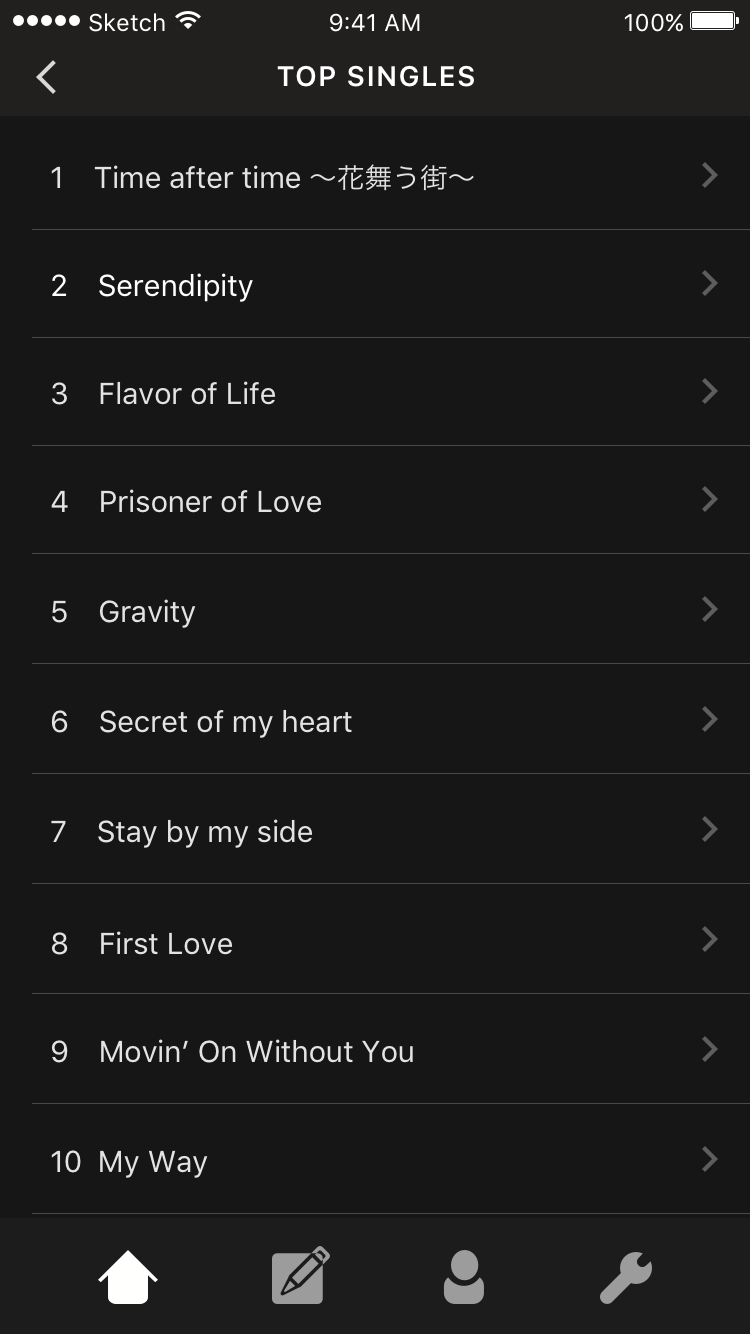
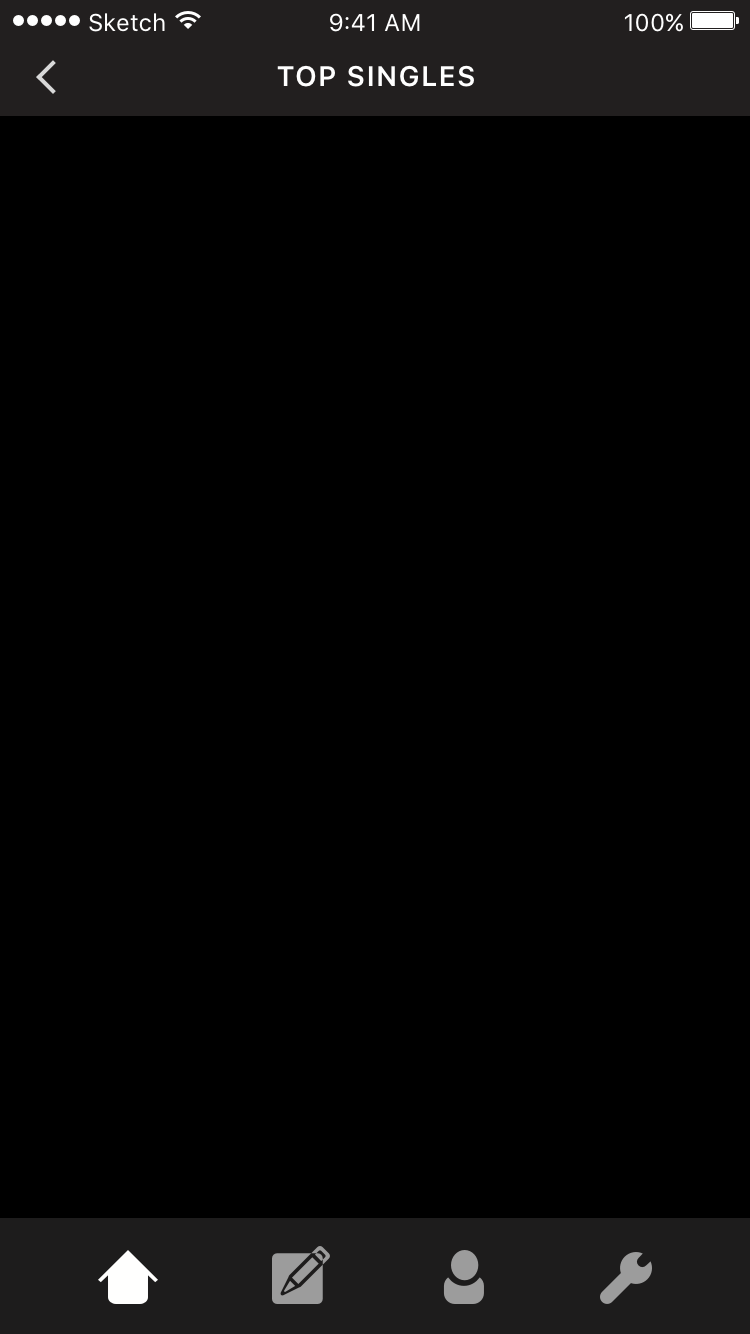
Finished rest of home1

diff --git a/core/src/client/pages/home/Home1.java b/core/src/client/pages/home/Home1.java
@@ -32,7 +32,7 @@ public class Home1 extends Home1Shell {
         b1.addListener(new ClickListener(){
             @Override
             public void clicked(InputEvent event, float x, float y) {
-                new ExecuteChangePage(Pages.PROFILE).execute();
+                StateManager.getInstance().toTemporaryState(new TopSingles());
             }
         });
 
@@ -45,7 +45,7 @@ public class Home1 extends Home1Shell {
         b2.addListener(new ClickListener(){
             @Override
             public void clicked(InputEvent event, float x, float y) {
-                new ExecuteChangePage(Pages.PROFILE).execute();
+                StateManager.getInstance().toTemporaryState(new TopSingles());
             }
         });
 
@@ -131,33 +131,33 @@ public class Home1 extends Home1Shell {
 
     public void addNewRelease(String artistName, String songName){
         newRelease.row().padTop(30 * StateManager.M);
-        newRelease.add(createNewSingle(artistName, songName)).expand();
+        newRelease.add(createNewSingle(artistName, songName)).width(750 * StateManager.M);
     }
 
     public void addTopSingle(String artistName, String songName) {
         topSingles.row().padTop(30 * StateManager.M);
-        topSingles.add(createNewSingle(artistName, songName));
+        topSingles.add(createNewSingle(artistName, songName)).width(750 * StateManager.M);
     }
 
     private Table createNewSingle(String artistName, String songName){
         Table t = new Table();
 
-        Label artist = new Label(artistName, SkinSingleton.getInstance());
-        Label song = new Label(songName, SkinSingleton.getInstance());
+        Label label = new Label(artistName + "\n" + songName, SkinSingleton.getInstance());
         Image line = new Image(new Texture("Home/Line@" + StateManager.M + ".png"));
 
-        t.add(artist);
-        t.row();
-        t.add(song);
-        t.row().padTop(28 * StateManager.M);
-        t.add(line);
-
-        t.addListener(new ClickListener() {
+        Image i = new Image(new Texture("Home/Enter@" + StateManager.M + ".png"));
+        ImageButton button = new ImageButton(i.getDrawable());
+        button.addListener(new ClickListener() {
             @Override
             public void clicked(InputEvent event, float x, float y) {
                 new ExecuteChangePage(Pages.NOWPLAYING).execute();
             }
         });
+
+        t.add(label).expand().left().padLeft(50 * StateManager.M);
+        t.add(button).expand().right().padRight(50 * StateManager.M);
+        t.row();
+        t.add(line).padTop(28 * StateManager.M);
 
         return t;
     }

diff --git a/core/src/client/pages/home/TopSingles.java b/core/src/client/pages/home/TopSingles.java
@@ -1,7 +1,71 @@
 package client.pages.home;
 
+import client.events.executables.internalChanges.ExecuteChangePage;
+import client.pageStorage.Pages;
+import client.singletons.SkinSingleton;
+import client.singletons.StateManager;
+import com.badlogic.gdx.graphics.Texture;
+import com.badlogic.gdx.scenes.scene2d.InputEvent;
+import com.badlogic.gdx.scenes.scene2d.ui.Image;
+import com.badlogic.gdx.scenes.scene2d.ui.ImageButton;
+import com.badlogic.gdx.scenes.scene2d.ui.Label;
+import com.badlogic.gdx.scenes.scene2d.ui.Table;
+import com.badlogic.gdx.scenes.scene2d.utils.ClickListener;
+
 /**
  * Created by blobbydude24 on 2016-03-23.
  */
-public class TopSingles {
+public class TopSingles extends TopSinglesShell{
+
+    private Table table;
+
+    public TopSingles(){
+        super.init();
+
+        table = new Table();
+        table.setBounds(0, 117 * StateManager.M, 750 * StateManager.M, 1100* StateManager.M);
+        table.top();
+
+        table.setDebug(true);
+
+        addSingle("Song1");
+        addSingle("Song2");
+        addSingle("Song3");
+        addSingle("Song4");
+        addSingle("Song5");
+        addSingle("Song6");
+        addSingle("Song7");
+        addSingle("Song8");
+        addSingle("Song9");
+        addSingle("Song10");
+
+        stage.addActor(table);
+    }
+
+    public void addSingle(String songName){
+        Table t = new Table();
+
+        Label single = new Label(songName, SkinSingleton.getInstance());
+
+        Image i = new Image(new Texture("Home/Enter@" + StateManager.M + ".png"));
+        ImageButton button = new ImageButton(i.getDrawable());
+        button.addListener(new ClickListener() {
+            @Override
+            public void clicked(InputEvent event, float x, float y) {
+                new ExecuteChangePage(Pages.NOWPLAYING).execute();
+            }
+        });
+
+        t.add(single).expand().left().padLeft(50 * StateManager.M);
+        t.add(button).expand().right().padRight(50 * StateManager.M);
+
+        table.add(t).width(750 * StateManager.M).height(110 * StateManager.M);
+        table.row();
+
+    }
+
+    @Override
+    public void reset() {
+
+    }
 }

diff --git a/core/src/client/pages/home/TopSinglesShell.java b/core/src/client/pages/home/TopSinglesShell.java
@@ -10,26 +10,21 @@ import com.badlogic.gdx.scenes.scene2d.ui.Image;
 import driver.GameLoop;
 
 /**
- * Created by blobbydude24 on 2016-03-13.
+ * Created by blobbydude24 on 2016-03-23.
  */
-public abstract class Home1Shell extends State{
+public abstract class TopSinglesShell extends State {
 
     public void init(){
         super.init();
 
-        Image background = new Image(new Texture("Home/HomeBG.png"));
+        Image background = new Image(new Texture("Home/TopSinglesBG.png"));
         background.setBounds(0, 0, GameLoop.WIDTH * StateManager.M, GameLoop.HEIGHT * StateManager.M);
         stage.addActor(background);
 
-        Button artistButton = new Button(this);
-        artistButton.setBounds(250 + 1, 1217, 250, 117);
-        artistButton.setExecutable(new ExecuteChangePage(Pages.HOME3));
-        add(artistButton);
-
-        Button discoveryButton = new Button(this);
-        discoveryButton.setBounds(500 + 1, 1217, 250, 117);
-        discoveryButton.setExecutable(new ExecuteChangePage(Pages.HOME4));
-        add(discoveryButton);
+        Button backButton = new Button(this);
+        backButton.setBounds(0, 1217, 117, 117);
+        backButton.setExecutable(new ExecuteChangePage(Pages.HOME1));
+        add(backButton);
 
         setBottomBar();
     }
@@ -38,6 +33,5 @@ public abstract class Home1Shell extends State{
     public void dispose() {
 
     }
-
 
 }

diff --git a/core/src/client/pages/friends/boxes/MessageBox.java b/core/src/client/pages/friends/boxes/MessageBox.java
@@ -73,7 +73,6 @@ public class MessageBox {
     }
 
     private void initSoundBox(final Executable e){
-//        stack.setY((y - 128 - 56) * StateManager.M);
         stack.setHeight(128 * StateManager.M);
 
         Image image = new Image(new Texture("Friends4\\Bubble" + byUser + "@" + StateManager.M + ".png"));
